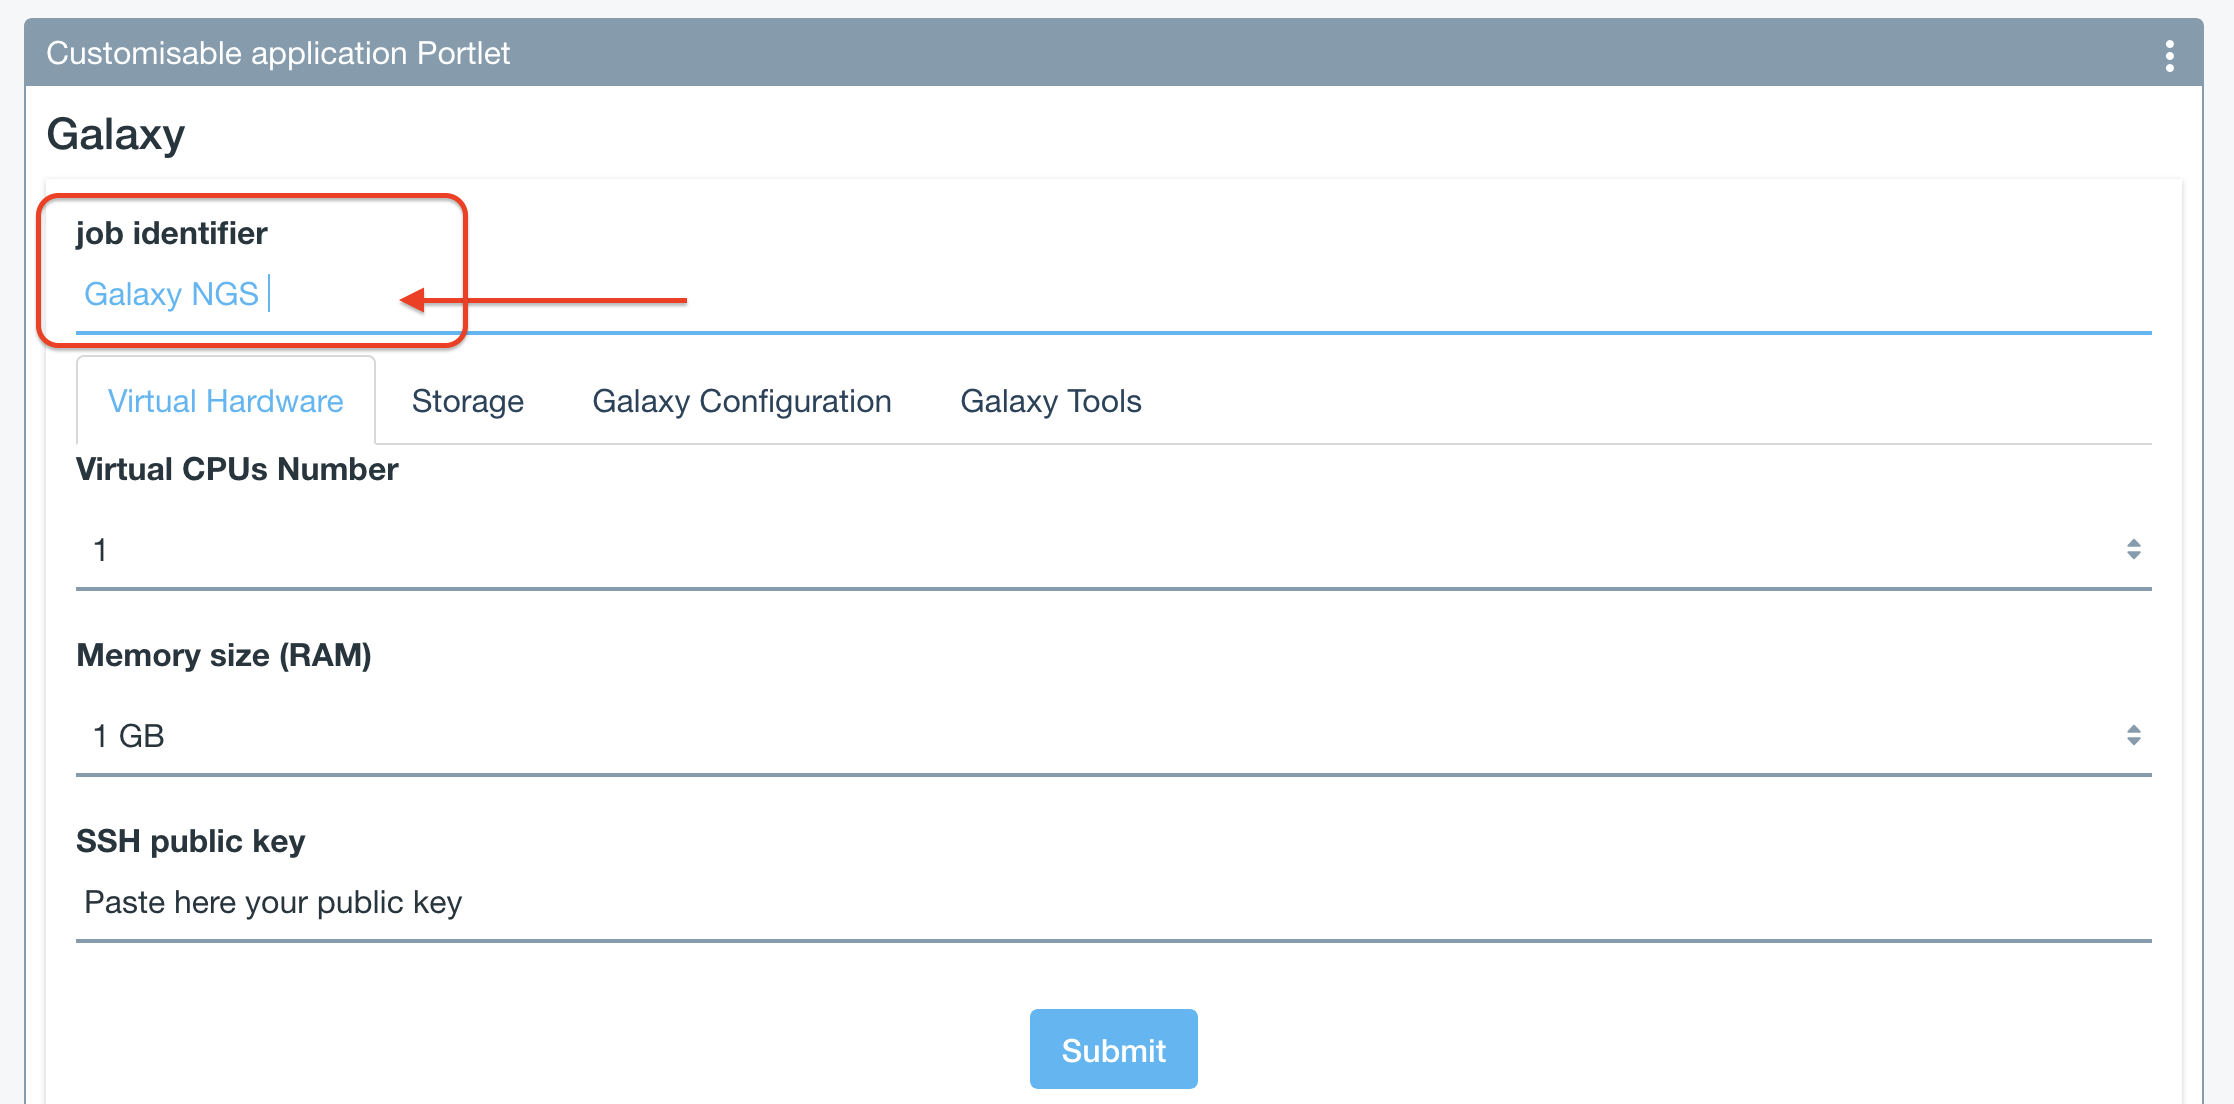
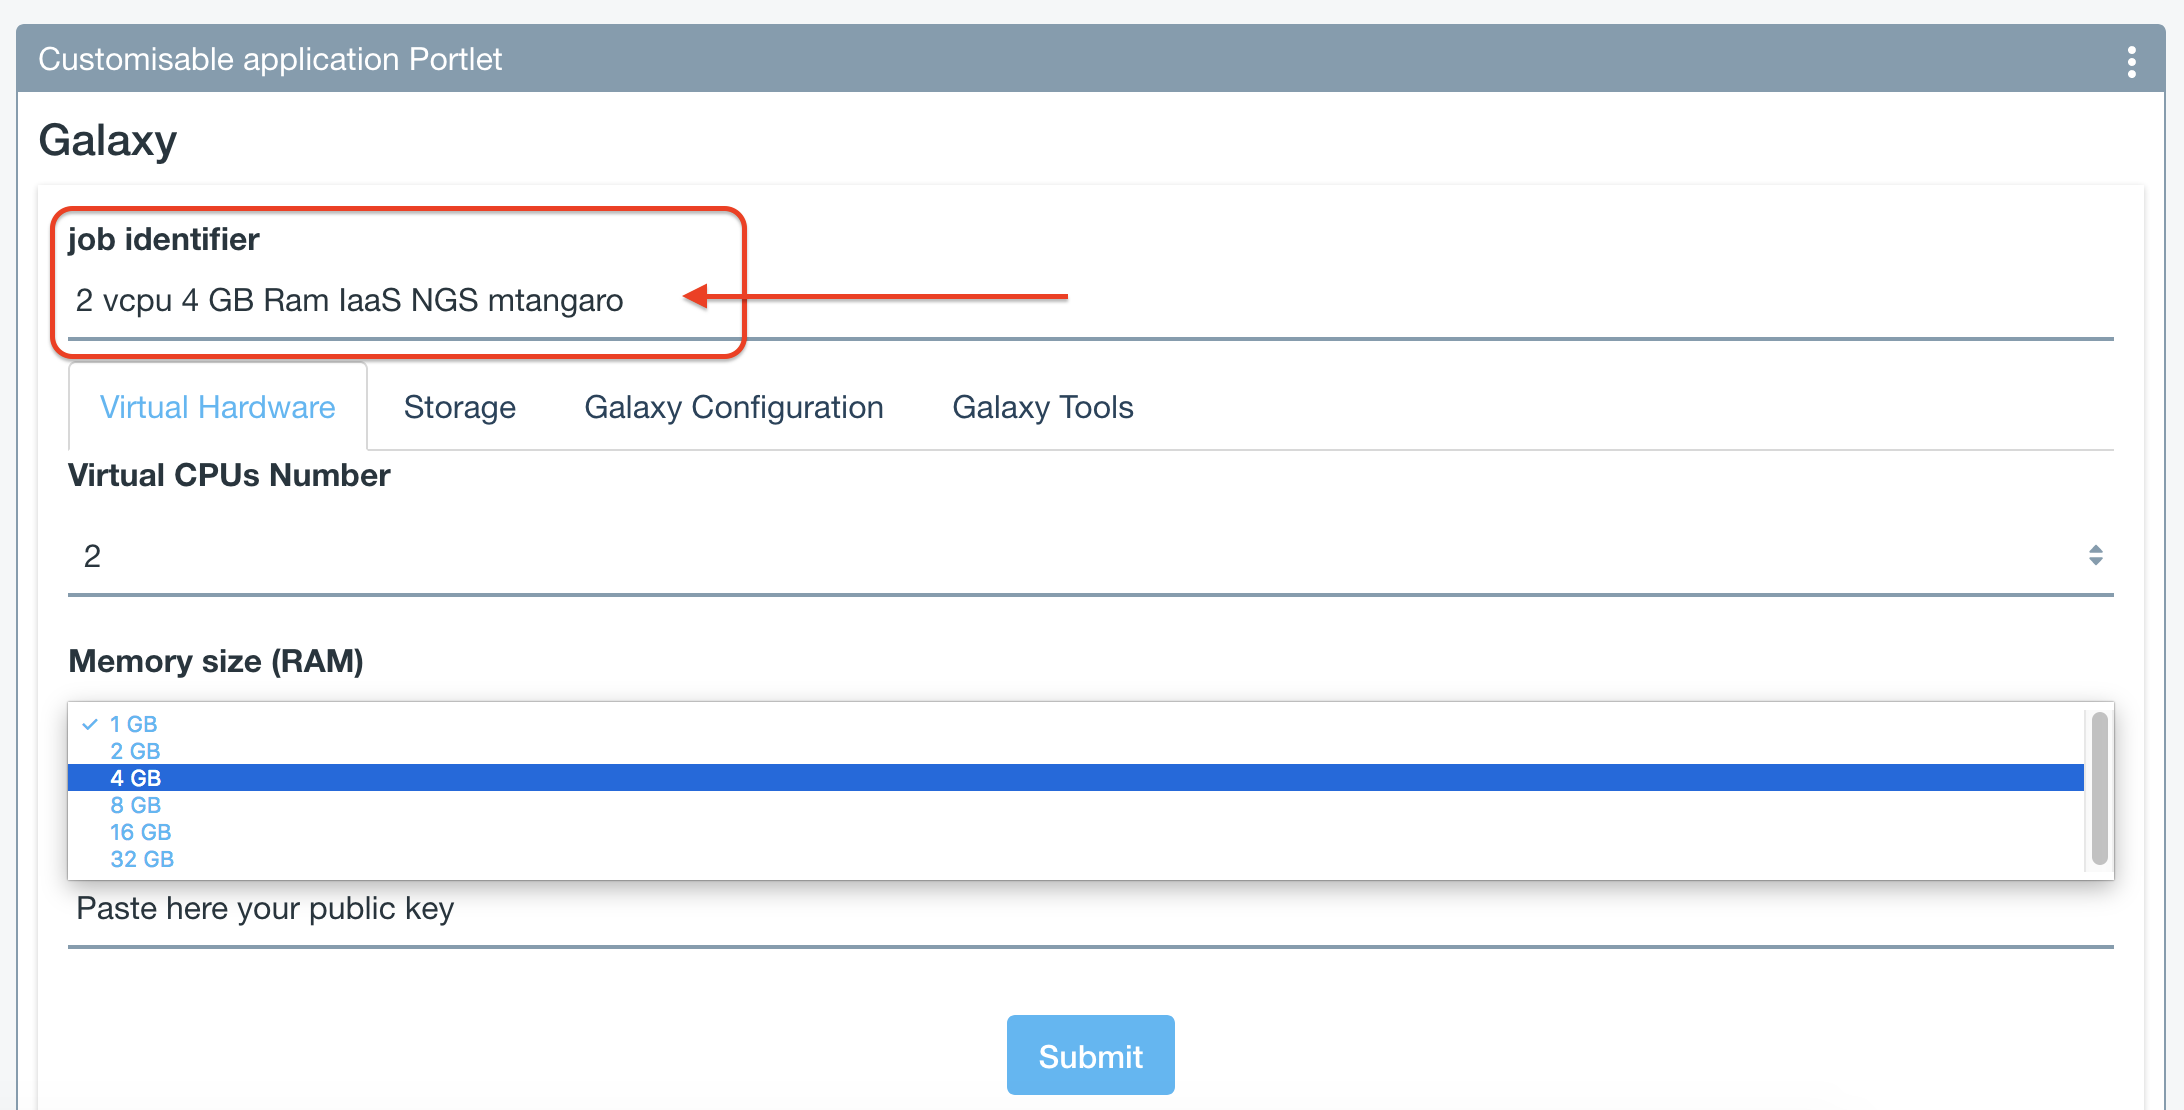
update jobid

diff --git a/qs_galaxy.rst b/qs_galaxy.rst
@@ -25,6 +25,10 @@ Instantiate Galaxy
 
 #. Set your ``Job identifier`` as you prefer, which will identfy your Galaxy in the job list, once your request is submitted:
 
+   .. Note::
+
+      Please be descriptive in the ``Job Identifier`` section, storing the Galaxy VM features, like user, VCPUs and Memory, tools presets and storage.
+
    .. figure:: _static/qs_galaxy/qs_galaxy_JobID.png
       :scale: 30 %
       :align: center
